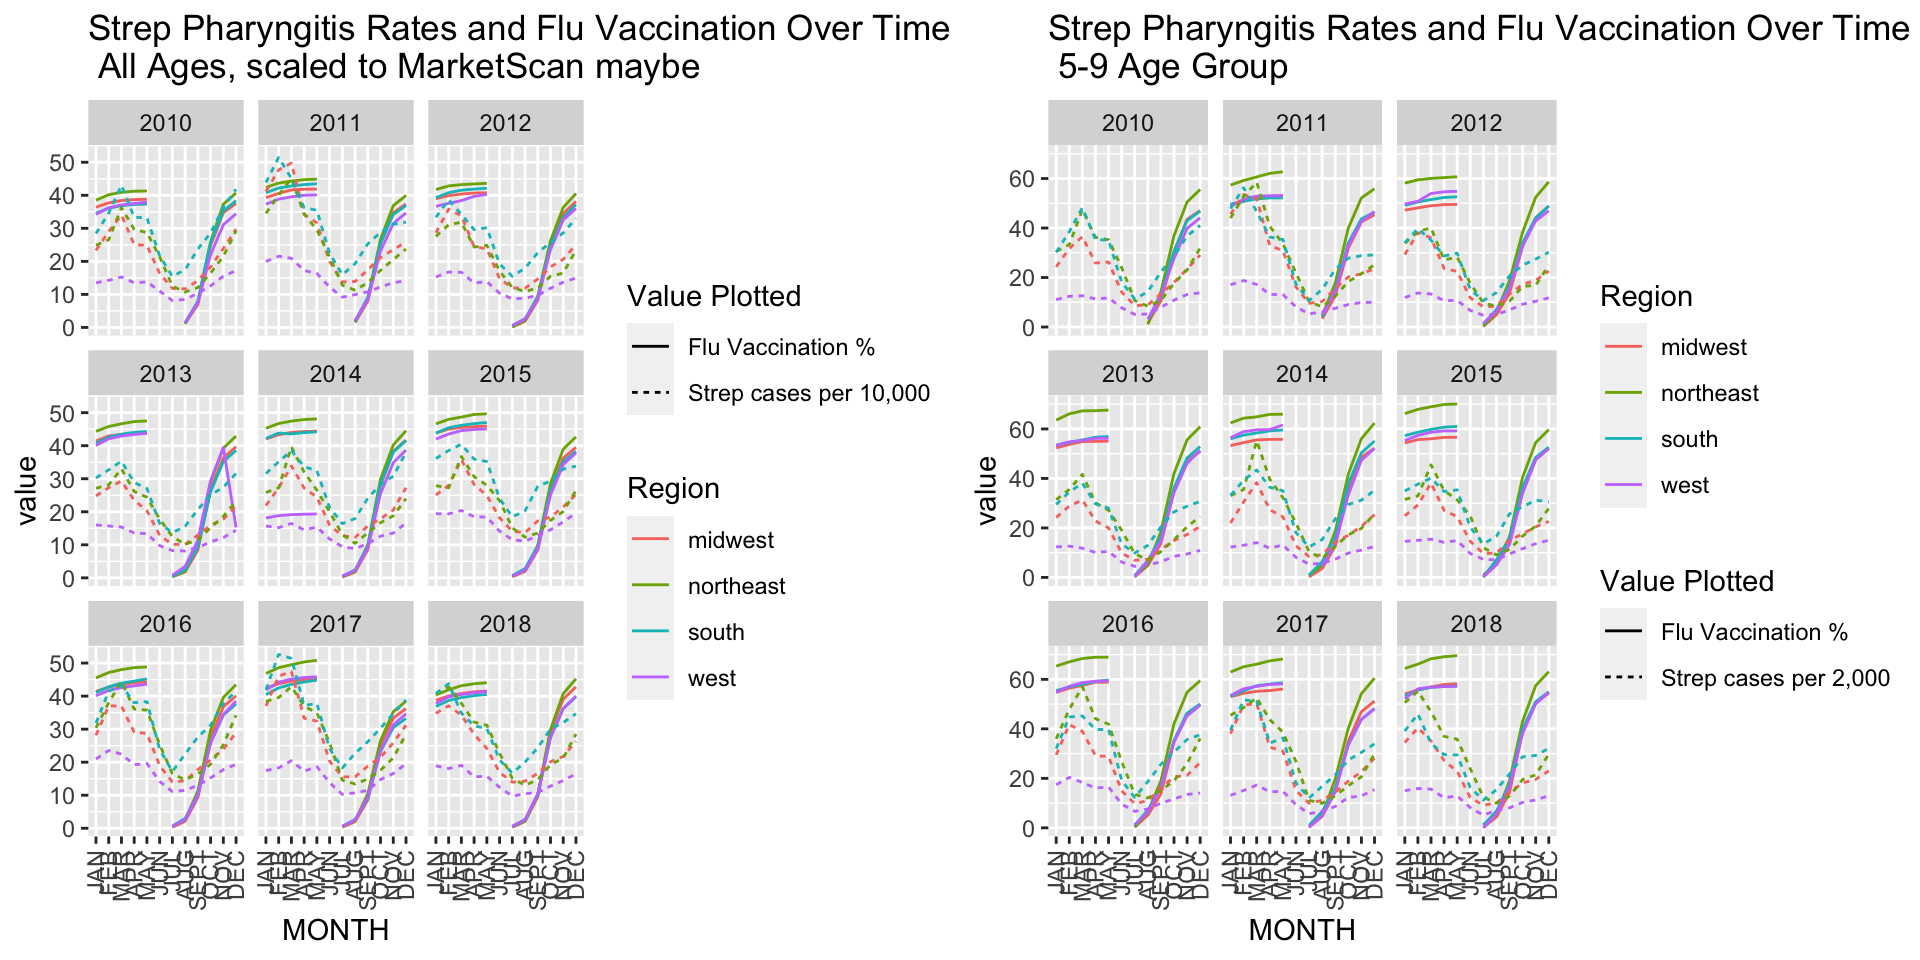
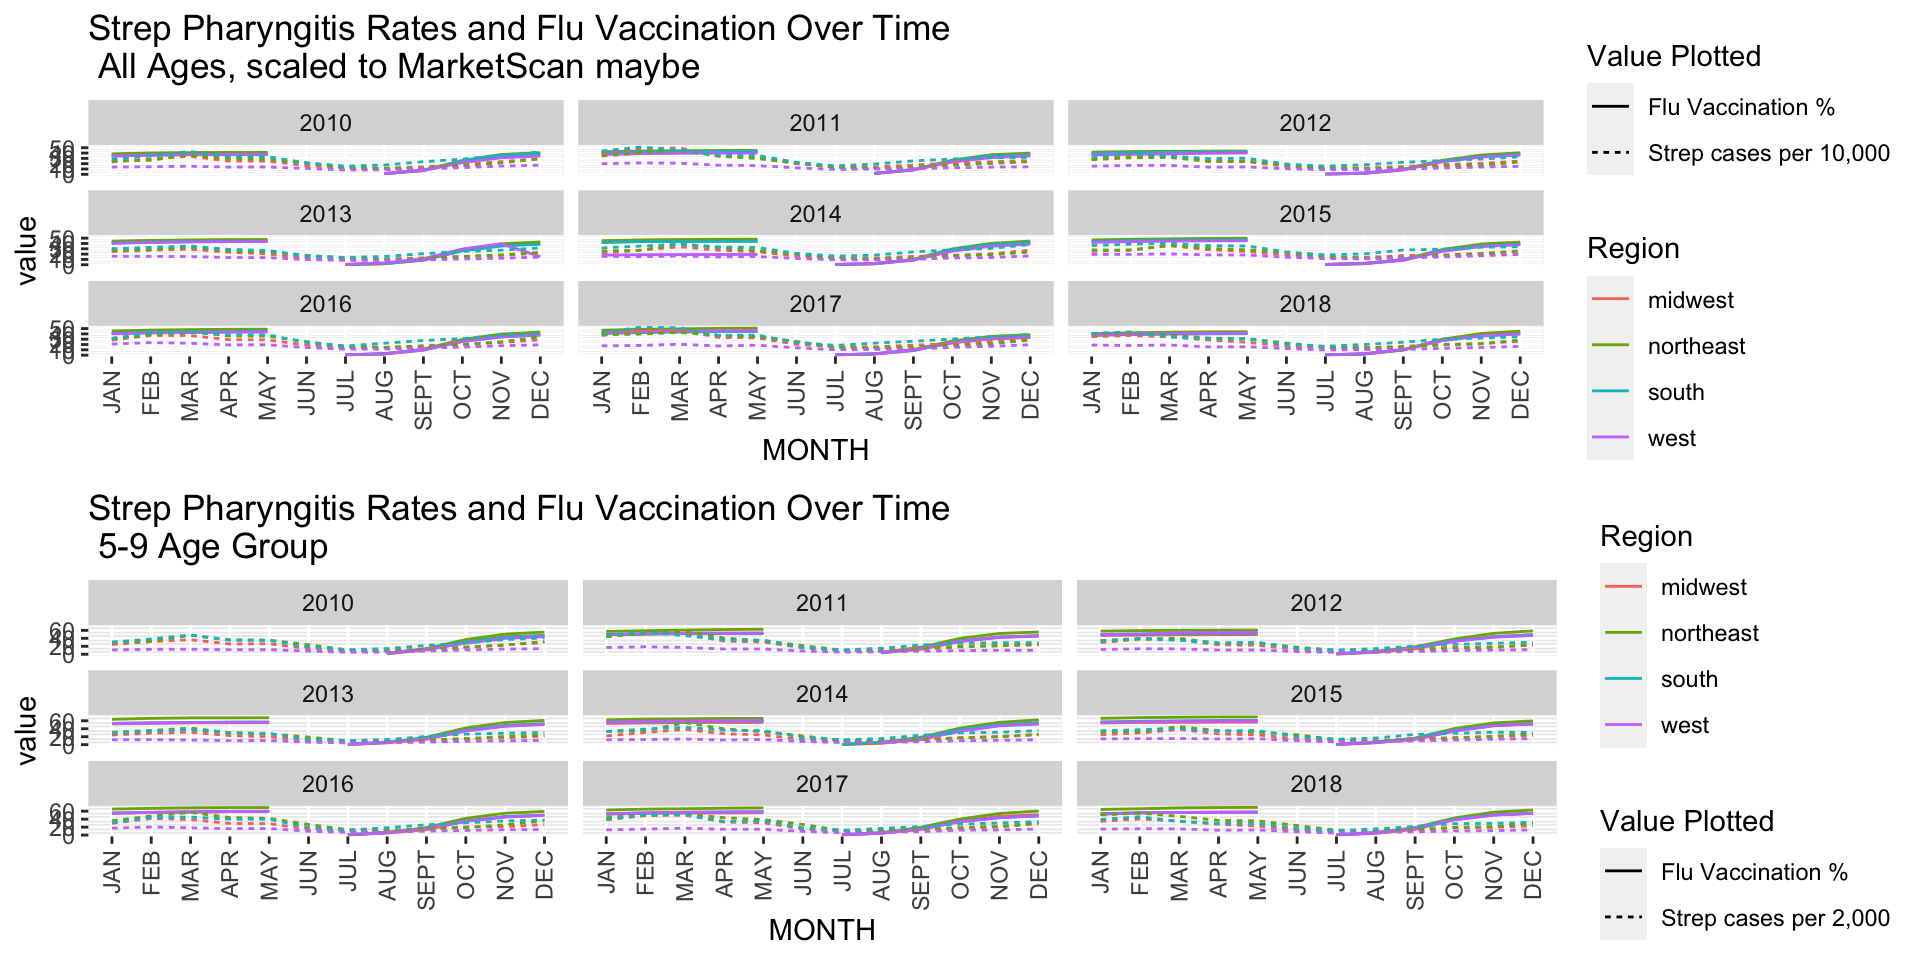
changed titles

diff --git a/index.html b/index.html
@@ -12,7 +12,7 @@
 <meta name="author" content="Maddy Kline" />
 
 
-<title>Welcome to my website!</title>
+<title>Maddy Kline BST260 Final Project 2022</title>
 
 <script src="site_libs/header-attrs-2.18/header-attrs.js"></script>
 <script src="site_libs/jquery-3.6.0/jquery-3.6.0.min.js"></script>
@@ -239,7 +239,7 @@ $(document).ready(function () {
         <span class="icon-bar"></span>
         <span class="icon-bar"></span>
       </button>
-      <a class="navbar-brand" href="index.html">YOURNAME</a>
+      <a class="navbar-brand" href="index.html">Maddy Kline BST260 Final Project 2022</a>
     </div>
     <div id="navbar" class="navbar-collapse collapse">
       <ul class="nav navbar-nav">
@@ -256,7 +256,7 @@ $(document).ready(function () {
 
 
 
-<h1 class="title toc-ignore">Welcome to my website!</h1>
+<h1 class="title toc-ignore">Maddy Kline BST260 Final Project 2022</h1>
 <h4 class="author">Maddy Kline</h4>
 
 </div>
@@ -1543,7 +1543,7 @@ fluvax_strep_59_plot &lt;- joint3_pivot |&gt; ggplot(aes(x= MONTH, y = value, co
   facet_wrap(~YEAR) + scale_x_discrete(limits = c(&quot;JAN&quot;, &quot;FEB&quot;, &quot;MAR&quot;, &quot;APR&quot;, &quot;MAY&quot;, &quot;JUN&quot;, &quot;JUL&quot;, &quot;AUG&quot;, &quot;SEPT&quot;,
                                                                                                                                    &quot;OCT&quot;, &quot;NOV&quot;, &quot;DEC&quot;)) + theme(axis.text.x = element_text(angle = 90, vjust = 0.5, hjust=1)) + ggtitle(&quot;Strep Pharyngitis Rates and Flu Vaccination Over Time  \n 5-9 Age Group&quot;) + labs(linetype = &quot;Value Plotted&quot;) + labs(color = &quot;Region&quot;) + scale_linetype_discrete(labels = c(&quot;Flu Vaccination %&quot;, &quot;Strep cases per 2,000&quot;))
 
-grid.arrange(fluvax_strep_allages_plot,fluvax_strep_59_plot, ncol =2)
+grid.arrange(fluvax_strep_allages_plot,fluvax_strep_59_plot, nrow =2)
 
 
 childvax_data &lt;- read_csv(&quot;/Users/madeleinekline/Dropbox (Harvard University)/G1/GradLab/vax_data/Vaccination_Coverage_among_Young_Children__0-35_Months_.csv&quot;)
